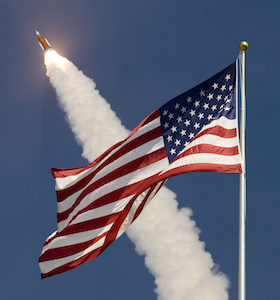
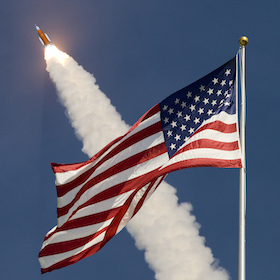
update about page photos

diff --git a/_assets/css/pages/_about.scss b/_assets/css/pages/_about.scss
@@ -3,14 +3,8 @@
 .about {
     .usa-hero {
         // background image
-        //background-image: url(asset_path("stock/shutterstock_695720095.jpg"));
-        background-image: url("https://via.placeholder.com/1920x600");
-        background-position: right auto;
-
-        // mobile
-        @include at-media-max("mobile-lg"){
-            background-position: 30% auto;
-        }
+        background-image: url(asset_path("stock/washington-monument.png"));
+        background-position: right 100%;
 
         // callout container
         .usa-hero__callout {
@@ -18,29 +12,52 @@
             @include grid-offset(7);
             @include u-padding-x(0);
             @include u-padding-top(8);
+            @include u-text("white");
 
-            // mobile
+            // < desktop-lg
+            @include at-media-max("desktop-lg") {
+                @include grid-col(6);
+                @include grid-offset(6);
+                min-height: 500px;
+            }
+
+            // < desktop
+            @include at-media-max("desktop") {
+                @include grid-col(7);
+                @include grid-offset(5);
+                min-height: 500px;
+            }
+
+            // < tablet-lg
             @include at-media-max("tablet-lg") {
+                @include grid-col(9);
+                @include grid-offset(3);
+            }
+
+            // < tablet
+            @include at-media-max("tablet") {
                 @include grid-col(12);
                 @include grid-offset(none);
                 @include u-padding-x(2);
-                background-color: rgba(255, 255, 255, 0.5);
+                min-height: 500px;
+            }
+
+            // typography
+            h1,
+            h2 {
+                color: inherit;
             }
         }
     }
 }
 
 .about-whoweare-image {
-    background-image: url(asset_path(
-        "stock/shutterstock_1580363914.jpg"
-    ));
+    background-image: url(asset_path("stock/shutterstock_1580363914.jpg"));
     background-position: 70% top;
 }
 
 .about-whatwedo-image {
-    background-image: url(asset_path(
-        "stock/gettyimages-1060587946-2048x2048.jpeg"
-    ));
+    background-image: url(asset_path("stock/gettyimages-1060587946-2048x2048.jpeg"));
     background-position: 55% top;
 
     @include at-media-max("tablet") {
@@ -49,9 +66,10 @@
 }
 
 .about-diversity-image {
-    // background-image: url(asset_path(
-    //     "stock/pexels-life-matters-4614144.jpeg"
-    // ));
-    background-image: url("https://via.placeholder.com/1000x1000");
-    background-position: 30% top;
+    background-image: url(asset_path("stock/presenting-microphone.png"));
+    background-position: 50% top;
+
+    @include at-media-max("tablet") {
+        background-position: 70% top;
+    }
 }

diff --git a/pages/about/index.html b/pages/about/index.html
@@ -95,15 +95,17 @@ permalink: /about/
       </div>
       <div class="benefit">
         {% asset
-        "shutterstock_231366124.jpg"
-        alt="close-up portrait of a happy young black woman smiling" %}
+        "inclusive.png"
+        alt="attractive young man in wheelchair with laptop" %}
         <h2>Inclusion</h2>
         <p>We put people first and celebrate what brings us together and makes each of us unique to meet
           the public’s needs.</p>
       </div>
       <div class="benefit">
-        <img src="https://via.placeholder.com/400x400" alt="happy group of young adults">
-        <h2>Impact</h2>
+        {% asset
+          "shutterstock_2000924243.jpg"
+          alt="attractive young woman wearing a white hijab" %}
+          <h2>Impact</h2>
         <p>We grow together and create lasting change for the good of the public and public servants.</p>
       </div>
     </div>
@@ -197,8 +199,10 @@ permalink: /about/
         %}
       </div>
       <div class="grid-col-auto padding-top-2">
-        <img src="https://via.placeholder.com/325x200/EEE/"
-          alt="reverse image of flag on right side of space shuttle" />
+        {%
+          asset "stock/shutterstock_943432.jpg"
+          alt="reverse image of flag on right side of space shuttle"  height=200
+          %}
       </div>
     </div>
   </div>

diff --git a/_assets/css/pages/_apply.scss b/_assets/css/pages/_apply.scss
@@ -10,9 +10,6 @@
             @include u-padding-x(0);
             @include u-text("white");
 
-            h1,h2{
-                color: inherit;
-            }
             // < desktop
             @include at-media-max("desktop") {
                 @include grid-col(6);
@@ -22,6 +19,12 @@
             // < tablet
             @include at-media-max("tablet") {
                 @include grid-col(12);
+            }
+
+            // typography
+            h1,
+            h2 {
+                color: inherit;
             }
         }
     }
